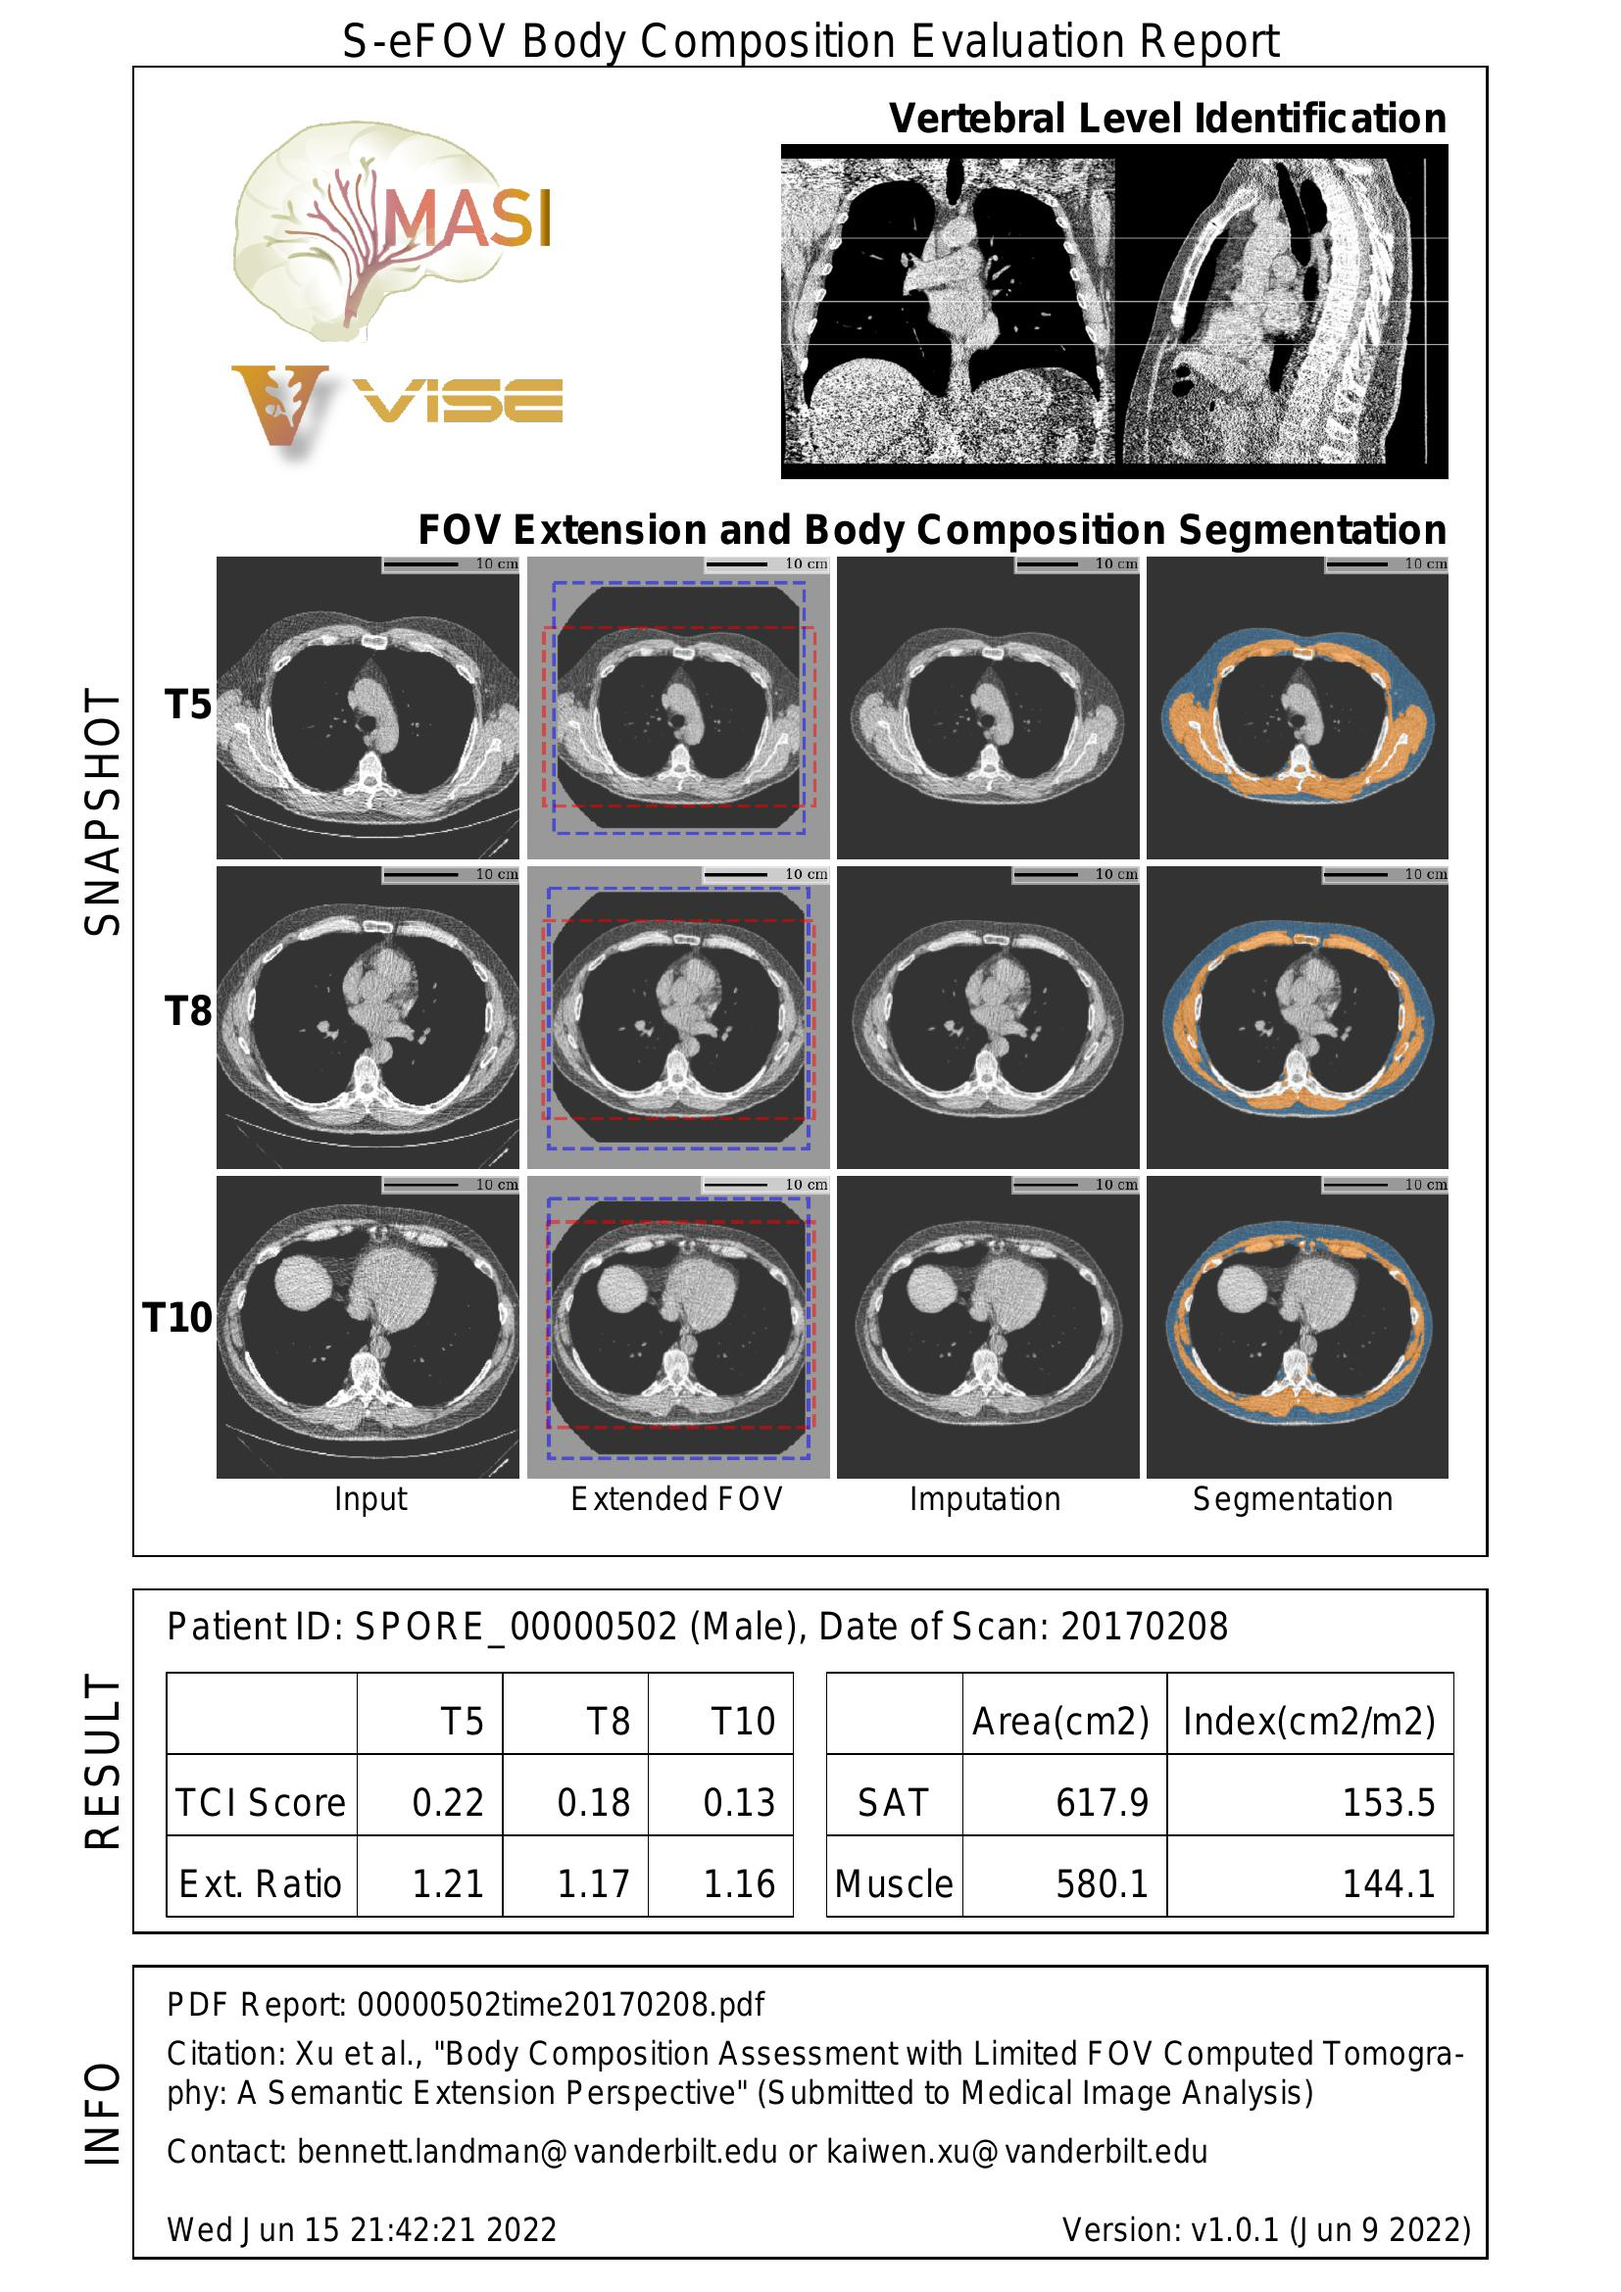
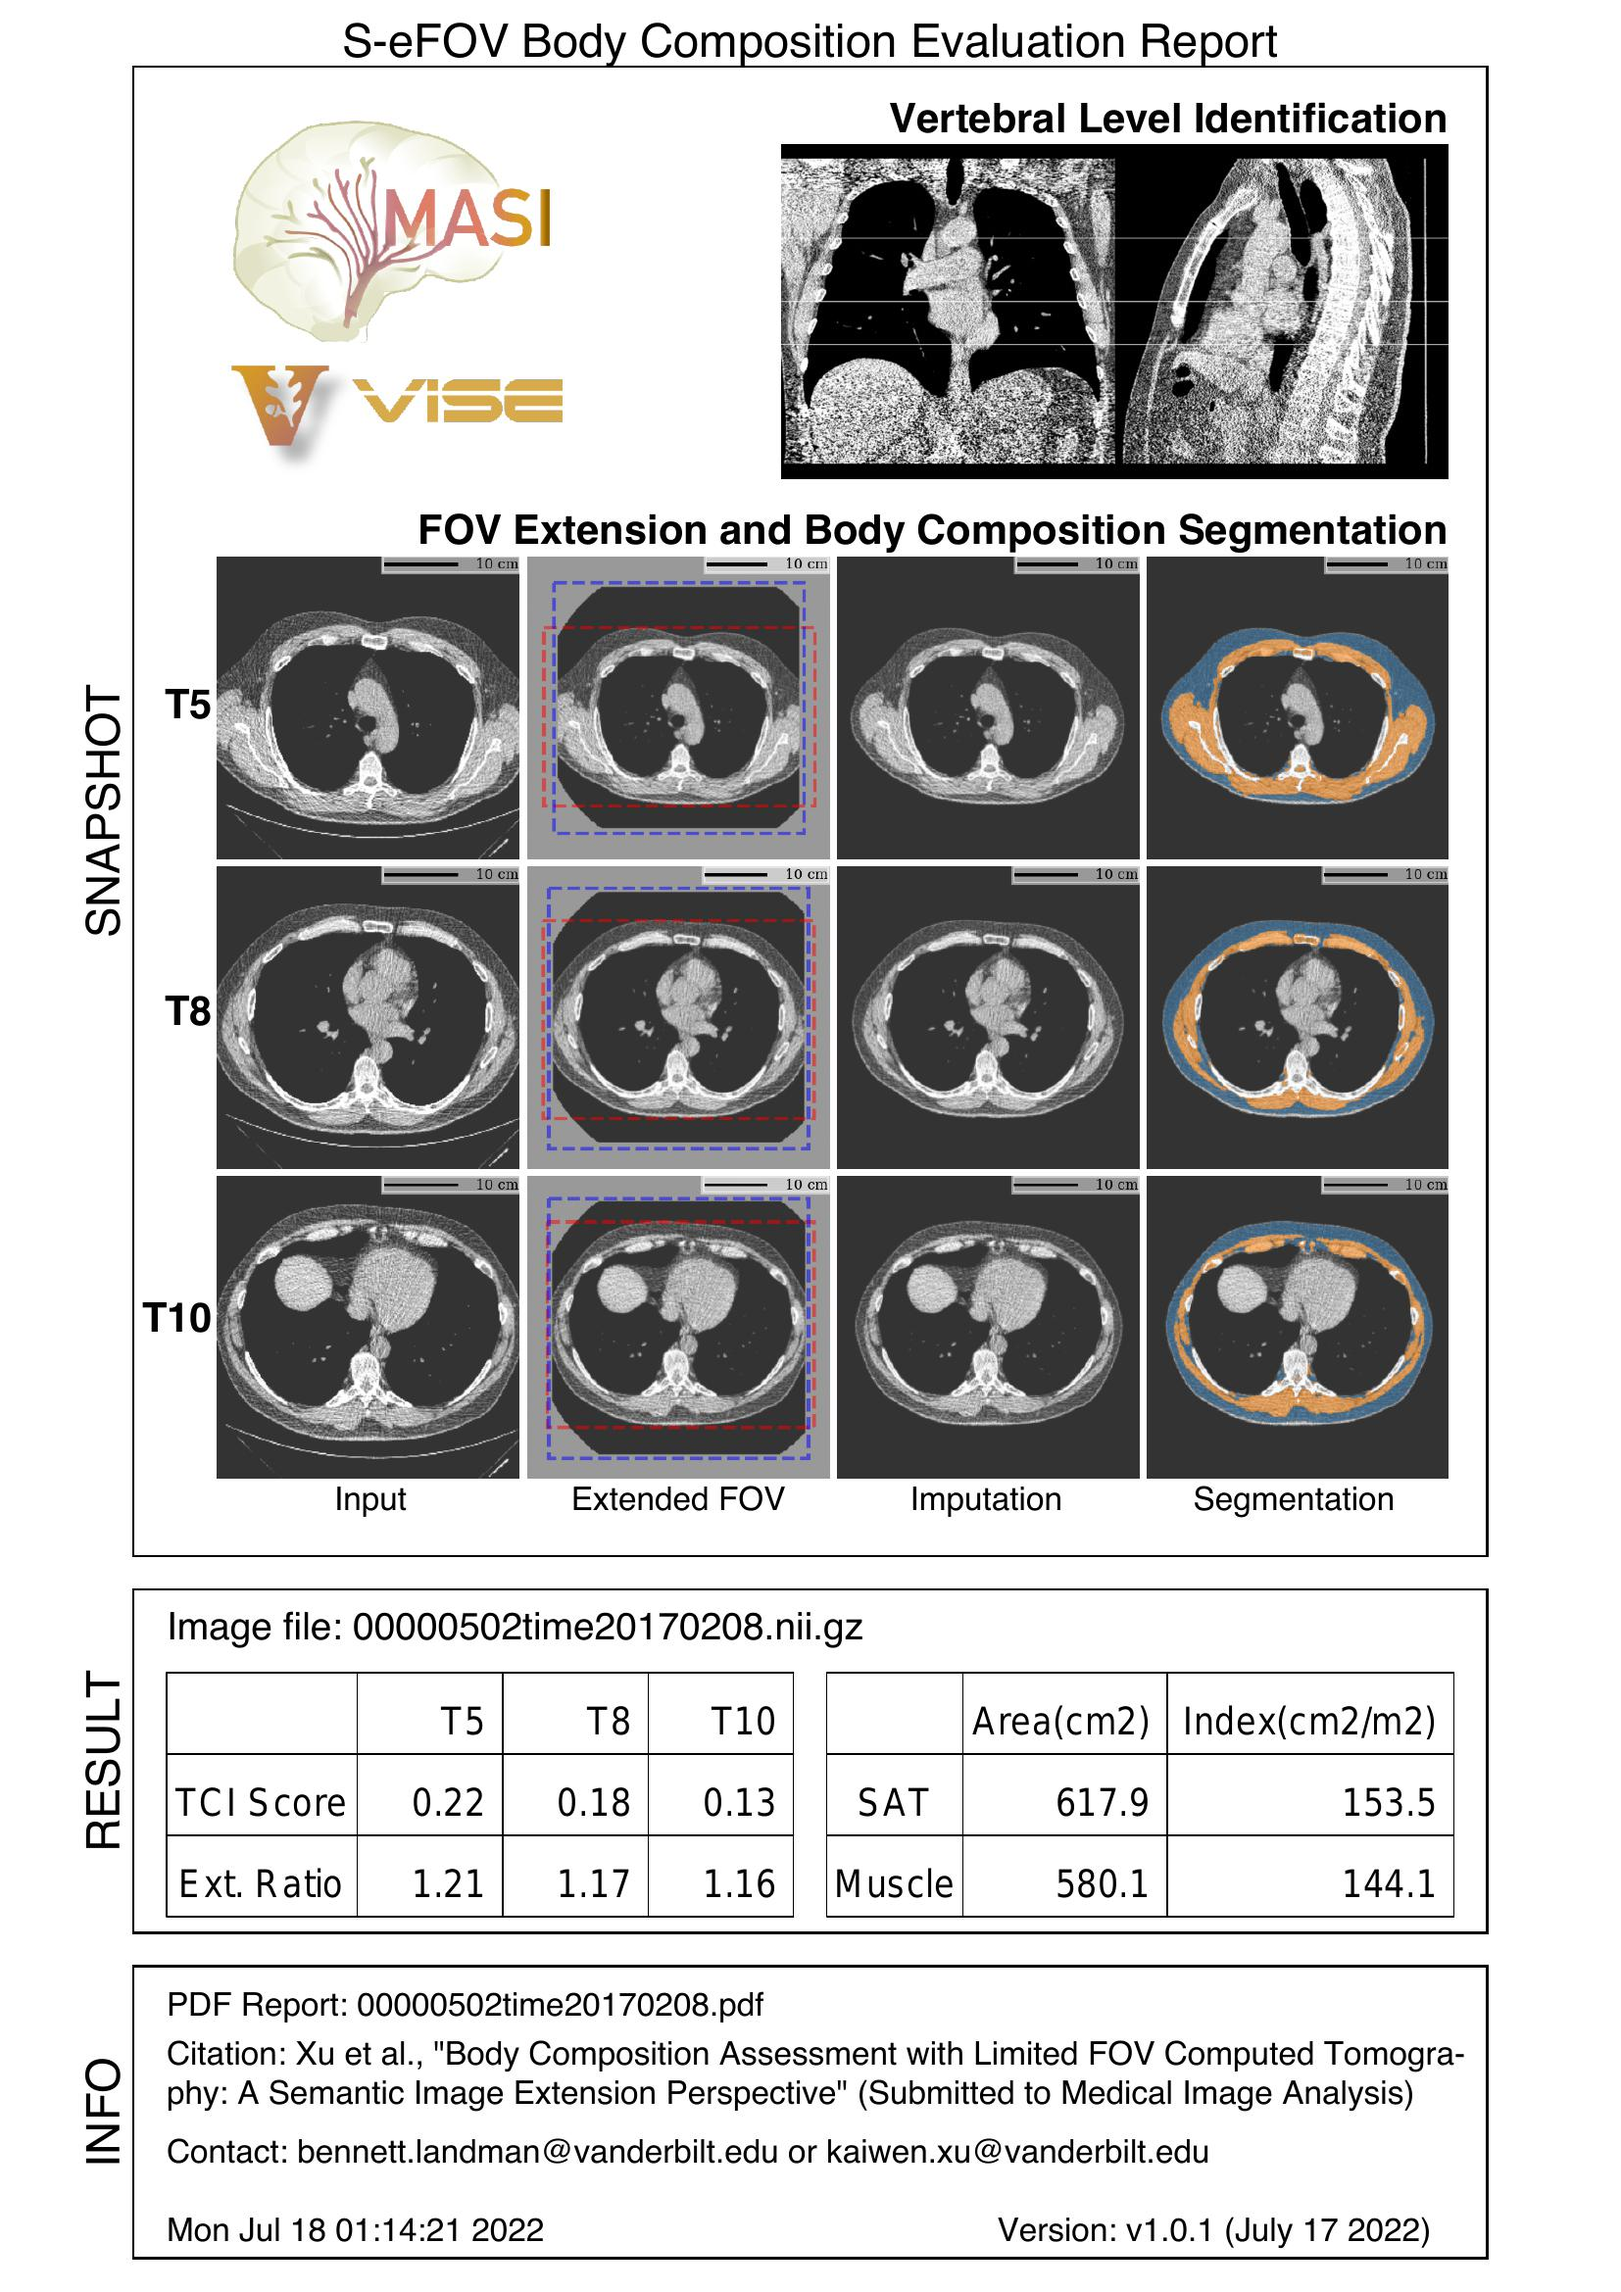
1) Update the pipeline to generate result report even without metadata. 2) Prepare an example input dataset and uploaded to zenodo.

diff --git a/README.md b/README.md
@@ -43,21 +43,21 @@ export INPUT_DIR=/home/input_dir
 
 Step.2 Put NIfTI images under folder $input_dir/NIFTI without sub-folder
 
-Step.3 Create a metadata.csv under $INPUT_DIR, which should contain the following two fields: 
+Step.3 Create a metadata.csv under $INPUT_DIR, which contains the following two fields: 
 ```
 - Filename
 - HeightMeters
 ```
+This metadata file is optional. However, the height information is needed to get the normalized BC indexes.
 
-An example for input data structure can be obtained via
+#### Example input dataset
+An example input dataset can be obtained via [https://doi.org/10.5281/zenodo.6853516]
 
-```
-TODO
-```
-
-Note: as we do not have to permission to share data related to neither the in-house lung screening dataset (VLSP)
-nor the National Lung Screening Trial (NLST), the example data are generated using (TODO) ### cases from ### dataset 
-(link). (Need to mention if the data is lung screening related or not.)
+As we do not have to permission to share the thoracic CT data used in the published papers, 
+the example dataset are compiled using four thoracic CT scans selected from the following public available (CC BY 4.0) dataset:
+[The Caner Imaging Archive (TCIA), Chest Imaging with Clinical and Genomic Correlates Representing a Rural COVID-19 Positive Population 
+(COVID-19-AR)](https://wiki.cancerimagingarchive.net/pages/viewpage.action?pageId=70226443#70226443171ba531fc374829b21d3647e95f532c).
+These chest CT imaging studies were acquired for COVID-19 patients.
 
 #### Run docker container
 Specify output location
@@ -78,7 +78,7 @@ sudo docker run -it --gpus all --rm -v $INPUT_DIR:/Input -v $OUTPUT_DIR:/Output 
 - Nvidia-docker version 2.10.0
 
 
-#### install Docker
+#### Install Docker
 ```
 sudo apt-get install apt-transport-https ca-certificates curl software-properties-common
 curl -fsSL https://download.docker.com/linux/ubuntu/gpg | sudo apt-key add -
@@ -88,7 +88,7 @@ sudo apt-get update
 sudo apt-get install docker-ce
 ```
 
-#### install Nvidia-Docker
+#### Install Nvidia-Docker
 ```
 curl -s -L https://nvidia.github.io/nvidia-docker/gpgkey | sudo apt-key add -
 distribution=$(. /etc/os-release;echo $ID$VERSION_ID)
@@ -96,9 +96,3 @@ curl -s -L https://nvidia.github.io/nvidia-docker/$distribution/nvidia-docker.li
 sudo apt-get update
 sudo apt-get install -y nvidia-docker2
 ```
-
-## Additional examples
-
-#### Lung screening chest CT
-
-#### Routine diagnostic chest CT
